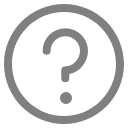
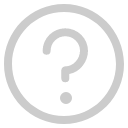
显示成语起源

Changed region(s): [[0.0312, 0.0312, 0.9688, 0.9688], [0.3125, 0.2188, 0.6875, 0.6562], [0.4688, 0.7188, 0.5625, 0.8125]]

diff --git a/pages/idiom/idiom.js b/pages/idiom/idiom.js
@@ -10,6 +10,7 @@ Page({
     id: null,
     name: null,
     pinyin: '',
+    origin: '',
     defs: null,
     lastEditor: null,
     updateTime: null,
@@ -59,6 +60,11 @@ Page({
     if (data['pinyin'] != null) {
       this.setData({
         pinyin: '[' + data['pinyin'] + ']'
+      })
+    }
+    if (data['origin'] != null) {
+      this.setData({
+        origin: '出自' + data['origin'] + '，'
       })
     }
     console.log('获取到成语释义：', this.data['defs'])

diff --git a/tools/color.js b/tools/color.js
@@ -9,7 +9,7 @@ function setBar(color) {
     backgroundColor: color
   })
   wx.setTabBarStyle({
-    color: '#808080',
+    color: '#CCCCCC',
     selectedColor: '#FFFFFF',
     backgroundColor: color
   })
